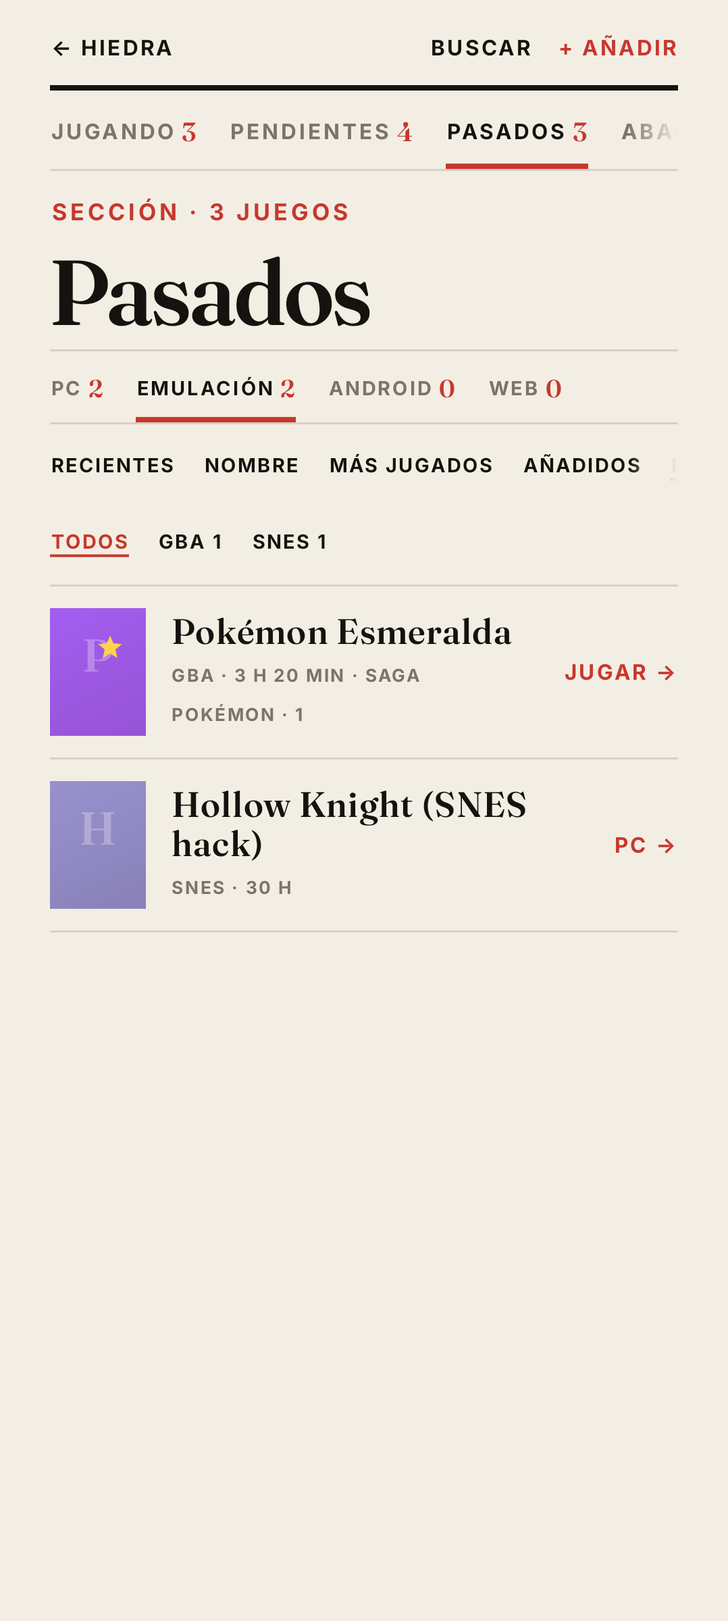
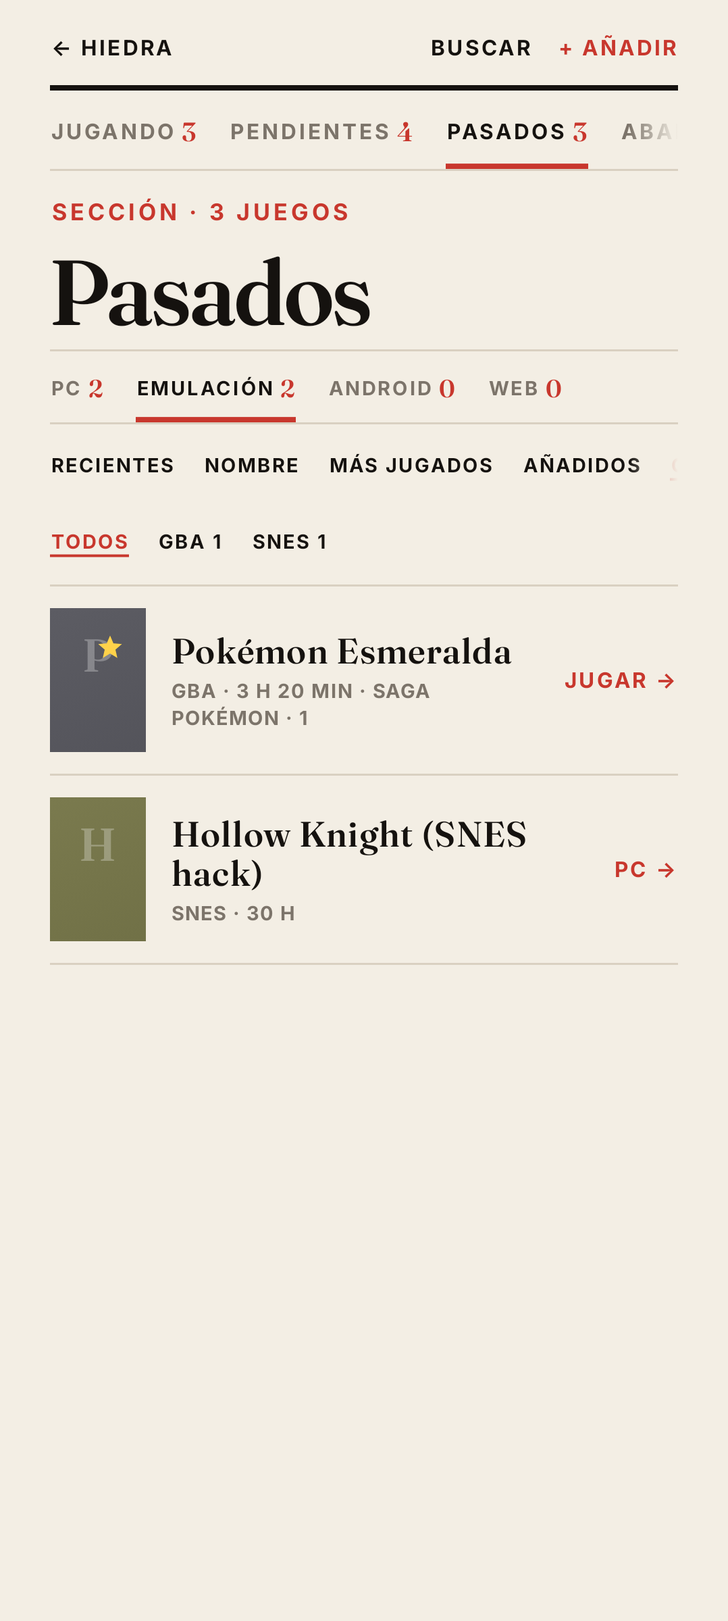
Hiedra 0.4.5: Parte 2 (fechas y cifras comunes, coherencia entre apps y pulido)
Ver README. Formato.kt con las mismas pruebas en las cuatro apps.

Claude-Session: https://claude.ai/code/session_01Q4uywen3nuzUg5CTwJaCY5

Changed region(s): [[0.0612, 0.3702, 0.7347, 0.5861], [0.7653, 0.401, 0.8878, 0.4318], [0.8571, 0.4935, 0.8878, 0.5552]]

diff --git a/app/src/main/java/com/gonzalo/hiedra/PantFicha.kt b/app/src/main/java/com/gonzalo/hiedra/PantFicha.kt
@@ -1,5 +1,7 @@
 package com.gonzalo.hiedra
 
+import androidx.compose.material.icons.rounded.Add
+import androidx.compose.material.icons.rounded.PlayArrow
 import android.content.Context
 import android.graphics.Bitmap
 import android.graphics.BitmapFactory
@@ -128,8 +130,8 @@ fun Ficha(id: String, alCerrar: () -> Unit, alJugar: (Juego) -> Unit, abrirPorta
         Spacer(Modifier.height(14.dp))
 
         // La portada (un toque la cambia) y tus horas (como la ficha de Marfil: la portada y por dónde vas)
-        Row(Modifier.fillMaxWidth().height(220.dp)) {
-            Box(Modifier.width(150.dp).height(220.dp).clip(esquina(3.dp)).border(1.dp, Line, esquina(3.dp)).clickable { eligePortada = true }.testTag("portada")) {
+        Row(Modifier.fillMaxWidth().height(225.dp)) {
+            Box(Modifier.width(150.dp).height(225.dp).clip(esquina(3.dp)).border(1.dp, Line, esquina(3.dp)).clickable { eligePortada = true }.testTag("portada")) {
                 PortadaArco(j, Modifier.matchParentSize(), titulo = false, letra = true, relleno = true, tamLetra = 64)
             }
             Column(Modifier.weight(1f).padding(start = 18.dp).fillMaxHeight(), verticalArrangement = Arrangement.Bottom) {
@@ -157,9 +159,10 @@ fun Ficha(id: String, alCerrar: () -> Unit, alJugar: (Juego) -> Unit, abrirPorta
 
         // Las acciones: jugar (o vincular) y la saga
         Filete(1.dp)
-        Row(Modifier.fillMaxWidth(), horizontalArrangement = Arrangement.spacedBy(18.dp), verticalAlignment = Alignment.CenterVertically) {
-            if (j.sinLanzador) EnlaceRevista("Añadir cómo se abre →", acento = true) { alVincular(j) }
-            else EnlaceRevista(if (j.abrible) "Jugar →" else if (j.enPc) "Jugar en el PC / streaming →" else "Jugar →", acento = true) { alJugar(j) }
+        // La acción de siempre, como en Marfil y Cobalto: un botón grande (jugar); la saga, al lado, en pequeño
+        Row(Modifier.fillMaxWidth().padding(vertical = 10.dp), horizontalArrangement = Arrangement.spacedBy(16.dp), verticalAlignment = Alignment.CenterVertically) {
+            if (j.sinLanzador) AccionGrande(androidx.compose.material.icons.Icons.Rounded.Add, "Añadir cómo se abre", Modifier.weight(1f)) { alVincular(j) }
+            else AccionGrande(androidx.compose.material.icons.Icons.Rounded.PlayArrow, if (j.enPc && !j.abrible) "Jugar en el PC" else "Jugar", Modifier.weight(1f)) { alJugar(j) }
             EnlaceRevista(if (miSaga != null) "Saga: ${miSaga.nombre} →" else "Saga →", acento = miSaga != null) { saga = true }
         }
         Filete(1.dp)
@@ -196,8 +199,11 @@ fun Ficha(id: String, alCerrar: () -> Unit, alJugar: (Juego) -> Unit, abrirPorta
         val nota = NotaAzabache.de(notas, j)
         Casilla("En Azabache", if (NotaAzabache.instalado(ctx)) "Abrir" to { NotaAzabache.abrir(ctx, nota) } else null) {
             if (nota == null) {
-                Text("Sin valorar en Azabache.", color = Muted, fontFamily = Display, fontStyle = FontStyle.Italic, fontSize = 16.sp)
-                Text("La valoración se hace allí; aquí solo se ve.", color = Muted, fontFamily = Display, fontStyle = FontStyle.Italic, fontSize = 13.sp, modifier = Modifier.padding(top = 4.dp))
+                // Una línea: lo que hay y qué hacer (antes eran dos que decían lo mismo)
+                Row(verticalAlignment = Alignment.CenterVertically) {
+                    Text(if (NotaAzabache.instalado(ctx)) "Sin valorar aún · " else "Sin valorar aún", color = Muted, fontFamily = Display, fontStyle = FontStyle.Italic, fontSize = 16.sp)
+                    if (NotaAzabache.instalado(ctx)) EnlaceRevista("Valorar en Azabache →", acento = true) { NotaAzabache.abrir(ctx, null) }
+                }
             } else {
                 Row(verticalAlignment = Alignment.Bottom) {
                     Text(nota.general.toString(), color = Charcoal, fontFamily = Display, fontWeight = FontWeight.Bold, fontSize = 64.sp, lineHeight = 62.sp, letterSpacing = (-2).sp, maxLines = 1, softWrap = false)
@@ -240,7 +246,7 @@ fun Ficha(id: String, alCerrar: () -> Unit, alJugar: (Juego) -> Unit, abrirPorta
             val pie = when {
                 buscandoDatos -> "Buscando los datos del juego…"
                 datos == null -> if (Datos.activo) "" else "Sin datos de fuera."
-                datos.nada -> if (Servicios.claves(ctx).rawg.isBlank()) "No está en la tienda de Steam. Con una clave de RAWG (Ajustes → Servicios, o en Atrio) se buscan también los juegos de consola." else "No he encontrado este juego en Steam ni en RAWG. Si su nombre aquí no es el oficial, cámbialo en «Editar» y busca de nuevo."
+                datos.nada -> if (Servicios.claves(ctx).rawg.isBlank()) "No está en la tienda de Steam. Con una clave de RAWG (Ajustes → Cuenta → Servicios, o en Atrio) se buscan también los juegos de consola." else "No he encontrado este juego en Steam ni en RAWG. Si su nombre aquí no es el oficial, cámbialo en «Editar» y busca de nuevo."
                 else -> ""
             }
             if (pie.isNotBlank()) Text(pie, color = Muted, fontFamily = Display, fontStyle = FontStyle.Italic, fontSize = 13.sp, lineHeight = 18.sp, modifier = Modifier.padding(top = 6.dp))
@@ -457,7 +463,7 @@ fun nombreFuente(k: String): String = when {
     else -> k
 }
 
-private fun fechaCorta(t: Long) = java.text.SimpleDateFormat("d/M/yyyy", java.util.Locale("es", "ES")).format(java.util.Date(t))
+private fun fechaCorta(t: Long) = Formato.fecha(t)
 fun notaTexto(n: Float) = if (n <= 0f) "—" else if (n % 1f == 0f) n.toInt().toString() else String.format(java.util.Locale("es", "ES"), "%.1f", n)
 
 /** Una casilla fija de la ficha: su antetítulo (con una acción a la derecha, si la hay) y lo que pinta, entre filetes. */

diff --git a/app/src/main/java/com/gonzalo/hiedra/PantInicio.kt b/app/src/main/java/com/gonzalo/hiedra/PantInicio.kt
@@ -97,7 +97,7 @@ fun Loseta(j: Juego, ancho: Dp, alJugar: () -> Unit, alAbrir: () -> Unit, modifi
     Column(modifier.width(ancho).enfocado(src).conMando(src, alJugar, alAbrir).focusable(interactionSource = src)
         .combinedClickable(interactionSource = src, indication = null, onClick = alJugar, onLongClick = { hf.performHapticFeedback(HapticFeedbackType.LongPress); alAbrir() })
         .testTag("loseta-" + j.id).padding(bottom = 6.dp)) {
-        Box(Modifier.fillMaxWidth().aspectRatio(0.75f).clip(esquina(3.dp)).border(1.dp, Line, esquina(3.dp))) {
+        Box(Modifier.fillMaxWidth().aspectRatio(PROPORCION_PORTADA).clip(esquina(3.dp)).border(1.dp, Line, esquina(3.dp))) {
             PortadaArco(j, Modifier.matchParentSize(), titulo = false, letra = true, relleno = true, tamLetra = if (ancho >= 140.dp) 44 else 30)
         }
         if (kicker.isNotBlank()) Text(kicker.uppercase(), color = Acento, fontFamily = Body, fontSize = 9.sp, fontWeight = FontWeight.Black, letterSpacing = 1.sp, maxLines = 1, modifier = Modifier.padding(top = 6.dp))
@@ -112,10 +112,10 @@ private fun LosetaSaga(s: Saga, juegos: List<Juego>, ancho: Dp, alAbrir: () -> U
     val src = remember { MutableInteractionSource() }
     val v = juegos.take(3)
     Column(Modifier.width(ancho).enfocado(src).conMando(src, alAbrir, alAbrir).focusable(interactionSource = src).clickable(interactionSource = src, indication = null, onClick = alAbrir).padding(bottom = 6.dp)) {
-        Box(Modifier.fillMaxWidth().aspectRatio(0.75f)) {
+        Box(Modifier.fillMaxWidth().aspectRatio(PROPORCION_PORTADA)) {
             v.asReversed().forEachIndexed { i, j ->
                 val k = v.size - 1 - i
-                Box(Modifier.padding(start = (ancho * 0.16f) * k, top = (ancho * 0.08f) * (v.size - 1 - k)).fillMaxWidth(if (v.size == 1) 1f else 0.7f).aspectRatio(0.75f).clip(esquina(3.dp)).border(1.dp, Line, esquina(3.dp))) {
+                Box(Modifier.padding(start = (ancho * 0.16f) * k, top = (ancho * 0.08f) * (v.size - 1 - k)).fillMaxWidth(if (v.size == 1) 1f else 0.7f).aspectRatio(PROPORCION_PORTADA).clip(esquina(3.dp)).border(1.dp, Line, esquina(3.dp))) {
                     PortadaArco(j, Modifier.matchParentSize(), titulo = false, letra = true, relleno = true, tamLetra = 26)
                 }
             }
@@ -192,7 +192,10 @@ fun PantInicio(alAbrir: (Juego) -> Unit, alJugar: (Juego) -> Unit, alAnadir: (Ti
     )
 
     // La cabecera y el menú, exactamente como en la portada de Atrio (RevistaHome): mismos márgenes, mismo tamaño de cabecera, de filetes y de letra
-    Column(Modifier.fillMaxSize().background(Paper).verticalScroll(rememberScrollState()).statusBarsPadding().padding(horizontal = 28.dp)) {
+    val desplazado = rememberScrollState()
+    val umbral = with(androidx.compose.ui.platform.LocalDensity.current) { 300.dp.toPx() }
+    Box(Modifier.fillMaxSize()) {
+    Column(Modifier.fillMaxSize().background(Paper).verticalScroll(desplazado).statusBarsPadding().padding(horizontal = 28.dp)) {
         Row(Modifier.fillMaxWidth().padding(top = 10.dp), verticalAlignment = Alignment.CenterVertically) {
             EnlaceRevista("Buscar") { alBuscar() }
             EnlaceRevista("+ Añadir", Modifier.padding(start = 14.dp), acento = true) { alAnadir(null) }
@@ -283,8 +286,13 @@ fun PantInicio(alAbrir: (Juego) -> Unit, alJugar: (Juego) -> Unit, alAnadir: (Ti
                 MagLink("Abrir Azabache", "Valora lo que acabas de jugar") { ctx.startActivity(atrio.addFlags(Intent.FLAG_ACTIVITY_NEW_TASK)) }
             }
             Text("Hiedra · hecho en casa", color = Muted, fontFamily = Display, fontStyle = FontStyle.Italic, fontSize = 12.sp, modifier = Modifier.align(Alignment.CenterHorizontally).padding(top = 14.dp))
+            // La versión instalada, debajo (para no tener que entrar en Ajustes a mirarla)
+            Text("versión $VERSION", color = Muted.copy(alpha = 0.7f), fontFamily = Body, fontSize = 10.sp, letterSpacing = 0.6.sp, modifier = Modifier.align(Alignment.CenterHorizontally).padding(top = 2.dp))
             Spacer(Modifier.height(24.dp + WindowInsets.navigationBars.asPaddingValues().calculateBottomPadding()))
         }
+    }
+    // Al bajar, la cabecera se pliega: arriba solo quedan el nombre y lo de siempre (Buscar · + Añadir…)
+    BarraPlegada("Hiedra", desplazado.value > umbral) { EnlaceRevista("Buscar") { alBuscar() }; EnlaceRevista("+ Añadir", Modifier.padding(start = 14.dp), acento = true) { alAnadir(null) } }
     }
 }
 

diff --git a/app/src/main/java/com/gonzalo/hiedra/Secciones.kt b/app/src/main/java/com/gonzalo/hiedra/Secciones.kt
@@ -58,7 +58,7 @@ fun ordenar(o: Orden, l: List<Juego>): List<Juego> = when (o) {
 /** El orden que has elegido para cada sección (se recuerda al cerrar la app). */
 object OrdenGuardado {
     private fun prefs(c: Context) = c.getSharedPreferences("hiedra_orden", Context.MODE_PRIVATE)
-    fun de(c: Context, e: Estado): Orden = Orden.entries.firstOrNull { it.name == prefs(c).getString(e.name, null) } ?: ordenInicial(e)
+    fun de(c: Context, e: Estado): Orden = (Orden.entries.firstOrNull { it.name == prefs(c).getString(e.name, null) } ?: ordenInicial(e)).let { if (it == Orden.Pasados && e != Estado.PASADO) ordenInicial(e) else it }
     fun pon(c: Context, e: Estado, o: Orden) { prefs(c).edit().putString(e.name, o.name).apply() }
 }
 
@@ -78,11 +78,11 @@ fun metaJuego(j: Juego, conEstado: Boolean = false): String = listOf(
 fun FilaJuego(j: Juego, alAbrir: (Juego) -> Unit, alJugar: ((Juego) -> Unit)? = null, modifier: Modifier = Modifier, portada: Dp = 54.dp, numero: Int = 0, conEstado: Boolean = false, extra: String = "") {
     Row(modifier.fillMaxWidth().clickable { alAbrir(j) }.padding(top = 12.dp, bottom = 12.dp), verticalAlignment = Alignment.CenterVertically) {
         if (numero > 0) Text("$numero", color = Acento, fontFamily = Display, fontWeight = FontWeight.SemiBold, fontSize = 20.sp, modifier = Modifier.width(26.dp))
-        Box(Modifier.width(portada).aspectRatio(0.75f).clip(esquina(4.dp))) { PortadaArco(j, Modifier.matchParentSize(), titulo = false, letra = true, relleno = true, tamLetra = 26) }
+        Box(Modifier.width(portada).aspectRatio(PROPORCION_PORTADA).clip(esquina(4.dp))) { PortadaArco(j, Modifier.matchParentSize(), titulo = false, letra = true, relleno = true, tamLetra = 26) }
         Column(Modifier.weight(1f).padding(horizontal = 14.dp)) {
             Text(j.titulo, color = Charcoal, fontFamily = Display, fontWeight = FontWeight.SemiBold, fontSize = if (portada >= 54.dp) 20.sp else 18.sp, lineHeight = if (portada >= 54.dp) 22.sp else 20.sp, maxLines = 2, overflow = TextOverflow.Ellipsis)
             val meta = listOf(metaJuego(j, conEstado), extra).filter { it.isNotBlank() }.joinToString(" · ")
-            if (meta.isNotBlank()) Text(meta.uppercase(), color = Muted, fontFamily = Body, fontSize = 10.sp, fontWeight = FontWeight.Bold, letterSpacing = 1.sp, maxLines = 2, modifier = Modifier.padding(top = 2.dp))
+            if (meta.isNotBlank()) Text(meta.uppercase(), color = Muted, fontFamily = Body, fontSize = 11.sp, fontWeight = FontWeight.Bold, letterSpacing = 0.8.sp, maxLines = 2, lineHeight = 15.sp, modifier = Modifier.padding(top = 3.dp))
         }
         if (alJugar != null && !j.sinLanzador) Text(if (j.enPc) "PC →" else "JUGAR →", color = Acento, fontFamily = Body, fontSize = 12.sp, fontWeight = FontWeight.Black, letterSpacing = 1.4.sp, maxLines = 1,
             modifier = Modifier.clickable { alJugar(j) }.padding(start = 8.dp, top = 12.dp, bottom = 12.dp))
@@ -196,7 +196,9 @@ private fun PaginaEstante(estado: Estado, todos: List<Juego>, menu: Menu?, alMen
                 Filete(1.dp, Line)
                 MenusPequenos(menu, cuentas) { sistema = null; alMenu(it) }
                 // Cómo se ordena esta sección (se recuerda)
-                FiltrosRevista(Orden.entries.map { it.nombre }, orden.ordinal, Modifier.padding(top = 4.dp)) { i -> orden = Orden.entries[i]; OrdenGuardado.pon(ctx, estado, orden) }
+                // «Cuándo lo pasaste», solo en Pasados (en las demás secciones no tiene sentido)
+                val ordenes = Orden.entries.filter { it != Orden.Pasados || estado == Estado.PASADO }
+                FiltrosRevista(ordenes.map { it.nombre }, ordenes.indexOf(orden).coerceAtLeast(0), Modifier.padding(top = 4.dp)) { i -> orden = ordenes[i]; OrdenGuardado.pon(ctx, estado, orden) }
                 // En Emulación, también por sistema
                 if (menu == Menu.EMULACION && sistemas.size > 1) FiltrosRevista(listOf("Todos") + sistemas.map { (Catalogo.sistema(it.key)?.corto ?: it.key) + " " + it.value.size }, sistemas.indexOfFirst { it.key == sistema } + 1) { i ->
                     sistema = if (i == 0) null else sistemas[i - 1].key

diff --git a/app/src/main/java/com/gonzalo/hiedra/PantPc.kt b/app/src/main/java/com/gonzalo/hiedra/PantPc.kt
@@ -134,8 +134,8 @@ fun TarjetaPc(alIr: () -> Unit, alAbrir: (Juego) -> Unit, enPortada: Boolean = t
     Column(Modifier.fillMaxWidth().padding(bottom = if (enPortada) 18.dp else 0.dp)) {
         Row(verticalAlignment = Alignment.CenterVertically) { PuntoDirecto(); Spacer(Modifier.width(8.dp)); Antetitulo("En directo · ${pc.name}", color = Acento, conCuadro = false) }
         Row(Modifier.fillMaxWidth().padding(top = 6.dp), verticalAlignment = Alignment.CenterVertically) {
-            if (juego != null) Box(Modifier.width(54.dp).aspectRatio(0.75f).clip(esquina(4.dp)).clickable { alAbrir(juego) }) { PortadaArco(juego, Modifier.matchParentSize(), titulo = false, letra = true, relleno = true, tamLetra = 26) }
-            else PortadaPc(PcGame(g.key, g.name, g.cover, g.sg, false, 0, "", 0), Modifier.width(54.dp).aspectRatio(0.75f))
+            if (juego != null) Box(Modifier.width(54.dp).aspectRatio(PROPORCION_PORTADA).clip(esquina(4.dp)).clickable { alAbrir(juego) }) { PortadaArco(juego, Modifier.matchParentSize(), titulo = false, letra = true, relleno = true, tamLetra = 26) }
+            else PortadaPc(PcGame(g.key, g.name, g.cover, g.sg, false, 0, "", 0), Modifier.width(54.dp).aspectRatio(PROPORCION_PORTADA))
             Column(Modifier.weight(1f).padding(start = 14.dp)) {
                 FitTitle(g.name, 26.sp, 28.sp, maxLines = 2, overflow = TextOverflow.Ellipsis, letterSpacing = (-0.5).sp)
                 Text(("Jugando desde hace " + desdeHace(g.start) + (juego?.takeIf { it.msJugados >= 60_000 }?.let { " · ${tiempoDe(it.msJugados)} en total" } ?: "")).uppercase(),
@@ -310,7 +310,7 @@ fun PantPc(alVolver: () -> Unit, alAbrir: (Juego) -> Unit, alCaptura: (Shot) -> 
                             LazyRow(horizontalArrangement = Arrangement.spacedBy(10.dp)) {
                                 items(recientes, key = { it.key }) { g ->
                                     Column(Modifier.width(96.dp).clickable { hoja = dev to g }) {
-                                        PortadaPc(g, Modifier.fillMaxWidth().aspectRatio(0.75f))
+                                        PortadaPc(g, Modifier.fillMaxWidth().aspectRatio(PROPORCION_PORTADA))
                                         Text(g.name, color = Charcoal, fontFamily = Display, fontWeight = FontWeight.SemiBold, fontSize = 13.sp, lineHeight = 15.sp, maxLines = 2, overflow = TextOverflow.Ellipsis, modifier = Modifier.padding(top = 4.dp))
                                     }
                                 }
@@ -329,7 +329,7 @@ fun PantPc(alVolver: () -> Unit, alAbrir: (Juego) -> Unit, alCaptura: (Shot) -> 
                             items(lib, key = { it.key }) { g ->
                                 val en = Biblioteca.porClave("pc:" + g.key) != null
                                 Column(Modifier.clickable { hoja = dev to g }) {
-                                    PortadaPc(g, Modifier.fillMaxWidth().aspectRatio(0.75f))
+                                    PortadaPc(g, Modifier.fillMaxWidth().aspectRatio(PROPORCION_PORTADA))
                                     Text(g.name, color = Charcoal, fontFamily = Display, fontWeight = FontWeight.SemiBold, fontSize = 13.sp, lineHeight = 15.sp, maxLines = 2, overflow = TextOverflow.Ellipsis, modifier = Modifier.padding(top = 4.dp))
                                     Text(listOfNotNull(if (g.minutes > 0) tiempoDe(g.minutes * 60_000L) else null, if (en) "en Hiedra" else null).joinToString(" · ").uppercase(), color = if (en) Acento else Muted, fontFamily = Body, fontSize = 9.sp, fontWeight = FontWeight.Bold, letterSpacing = 0.8.sp, maxLines = 2)
                                 }

diff --git a/app/src/main/java/com/gonzalo/hiedra/Portadas.kt b/app/src/main/java/com/gonzalo/hiedra/Portadas.kt
@@ -54,19 +54,20 @@ fun urlsLibretro(j: Juego): List<String> {
 }
 
 /** Los dos colores del degradado de un juego: el de su sistema (o un tono según el nombre) un poco movido por el título. */
+/** La proporción de una portada (ancho/alto): 2:3, la de las carátulas (SteamGridDB, cajas). La misma en la ficha, las listas y la pantalla de inicio, para que nada se recorte distinto. */
+const val PROPORCION_PORTADA = 2f / 3f
+
+/** Las telas de las portadas de letra: las mismas en Hiedra, Marfil, Cobalto y Azabache (un título, siempre el mismo color). */
+val TELAS = listOf(0xFF7A2E2E, 0xFF2F4A6B, 0xFF35523F, 0xFF5B3F6B, 0xFF8A5A2B, 0xFF3F5E63, 0xFF6B6B3A, 0xFF4A4A52).map { Color(it) }
+fun telaDe(titulo: String): Color = TELAS[(normTela(titulo).hashCode() and 0x7fffffff) % TELAS.size]
+/** La misma normalización que Marfil (así un título tiene la misma tela en las cuatro apps). */
+fun normTela(s: String): String = java.text.Normalizer.normalize(s.lowercase(), java.text.Normalizer.Form.NFD).replace(Regex("\\p{M}+"), "").replace(Regex("[^\\p{L}\\p{N}]+"), " ").trim()
+private fun mezcla(a: Color, b: Color, t: Float) = Color(a.red + (b.red - a.red) * t, a.green + (b.green - a.green) * t, a.blue + (b.blue - a.blue) * t, 1f)
+
 fun tonosDe(j: Juego): Pair<Color, Color> {
-    val base = when (j.tipo) {
-        TipoLanzador.ROM -> Catalogo.sistema(j.sistema)?.color ?: Color(0xFF6C4DD6)
-        TipoLanzador.APP -> Color.hsv(((j.paquete.hashCode().mod(120)) + 90).toFloat(), 0.5f, 0.6f)
-        TipoLanzador.WEB -> Color.hsv(((j.url.hashCode().mod(80)) + 190).toFloat(), 0.55f, 0.62f)
-        TipoLanzador.PC -> Color.hsv((((j.clave.hashCode().mod(60)) + 340) % 360).toFloat(), 0.55f, 0.5f)
-        null -> Color.hsv(((j.clave.hashCode().mod(300)) + 20).toFloat(), 0.5f, 0.58f)
-    }
-    val shift = (j.titulo.hashCode().mod(40) - 20).toFloat()
-    val hsv = FloatArray(3).also { android.graphics.Color.colorToHSV(base.toArgb2(), it) }
-    val a = Color.hsv(((hsv[0] + shift + 360) % 360), (hsv[1] * 0.95f).coerceIn(0f, 1f), (hsv[2] * 1.12f).coerceIn(0f, 1f))
-    val b = Color.hsv(((hsv[0] + shift * 2 + 380) % 360), (hsv[1]).coerceIn(0f, 1f), (hsv[2] * 0.42f).coerceIn(0f, 1f))
-    return a to b
+    // La tela del título (como las tapas de Marfil), de un poco más clara arriba a más oscura abajo
+    val tela = telaDe(j.titulo)
+    return mezcla(tela, Color.White, 0.10f) to mezcla(tela, Color.Black, 0.32f)
 }
 private fun Color.toArgb2(): Int = android.graphics.Color.argb((alpha * 255).toInt(), (red * 255).toInt(), (green * 255).toInt(), (blue * 255).toInt())
 
@@ -117,7 +118,7 @@ fun PortadaArco(
     val hayPortada = remember(j.portada) { j.portada.isNotBlank() && File(j.portada).exists() }
     val borde = Skin.forma
     Box(
-        modifier.let { if (relleno) it else it.aspectRatio(0.75f) }
+        modifier.let { if (relleno) it else it.aspectRatio(PROPORCION_PORTADA) }
             .let { m -> if (borde.sombraDura) m.drawBehind { drawRect(Charcoal, topLeft = Offset(6.dp.toPx(), 6.dp.toPx()), size = size) } else m }
             .clip(forma).background(Brush.linearGradient(listOf(a, b), Offset.Zero, Offset(600f, 1200f)))
             .let { if (borde.borde.value > 0f) it.border(borde.borde, if (borde.bordeTinta) Charcoal else Line, forma) else it }

diff --git a/app/src/main/java/com/gonzalo/hiedra/Modelo.kt b/app/src/main/java/com/gonzalo/hiedra/Modelo.kt
@@ -257,6 +257,7 @@ object Biblioteca {
         val f = archivo!!
         if (f.exists()) runCatching { leer(f.readText()) }
         cargada = true
+        runCatching { unirRepetidos() }
     }
 
     fun leer(txt: String, reemplazar: Boolean = true) {
@@ -332,6 +333,22 @@ object Biblioteca {
         return (por(n.id) ?: n) to true
     }
 
+    /**
+     * Juegos repetidos: dos fichas con una clave en común (la misma ROM, la misma app, el mismo juego del PC o de Steam, el mismo título) y la
+     * misma plataforma (o una sin plataforma) son el mismo juego. Pasaba al importar de Atrio o de Carmesí en dos móviles: cada uno creaba su
+     * copia, con su propio id, y al quitar una volvía la del otro. Se juntan en la de id más bajo (la misma en todos tus móviles, así no se
+     * pisan) y las demás se quitan (y se quitan también en tus otros móviles). Devuelve cuántas ha juntado.
+     */
+    fun unirRepetidos(): Int {
+        val grupos = gruposRepetidos(juegos.toList())
+        var n = 0
+        for (g in grupos) {
+            val queda = g.minOf { it }
+            for (otro in g) if (otro != queda && unir(queda, otro) != null) n++
+        }
+        return n
+    }
+
     /** Une dos juegos (ver [unirJuegos]): [origenId] desaparece dentro de [destinoId]. Devuelve el resultado o null si falta alguno. */
     fun unir(destinoId: String, origenId: String): Juego? {
         val d = por(destinoId) ?: return null; val o = por(origenId) ?: return null
@@ -386,4 +403,22 @@ object Ajustes {
     fun guardar(c: Context) {
         p(c).edit().putBoolean("libretro", portadasLibretro).putString("emus", JSONObject(emuladorPorSistema as Map<*, *>).toString()).apply()
     }
+}
+
+
+/** Los grupos de ids que son el mismo juego (ver [Biblioteca.unirRepetidos]). Pura (se prueba). */
+fun gruposRepetidos(juegos: List<Juego>): List<Set<String>> {
+    val padre = HashMap<String, String>()
+    fun raiz(x: String): String { var r = x; while (padre[r] != null && padre[r] != r) r = padre[r]!!; return r }
+    fun junta(a: String, b: String) { val ra = raiz(a); val rb = raiz(b); if (ra != rb) padre[maxOf(ra, rb)] = minOf(ra, rb) }
+    juegos.forEach { padre[it.id] = it.id }
+    val porClave = HashMap<String, MutableList<Juego>>()
+    juegos.forEach { j -> j.claves.forEach { k -> porClave.getOrPut(k) { ArrayList() }.add(j) } }
+    for (l in porClave.values) for (i in l.indices) for (k in i + 1 until l.size) {
+        val a = l[i]; val b = l[k]
+        if (a.id == b.id) continue
+        val pa = a.plataforma.trim().lowercase(); val pb = b.plataforma.trim().lowercase()
+        if (pa.isBlank() || pb.isBlank() || pa == pb) junta(a.id, b.id)
+    }
+    return juegos.map { it.id }.groupBy { raiz(it) }.values.filter { it.size > 1 }.map { it.toSet() }
 }

diff --git a/app/src/main/java/com/gonzalo/hiedra/Revista.kt b/app/src/main/java/com/gonzalo/hiedra/Revista.kt
@@ -102,7 +102,8 @@ fun PestanasRevista(nombres: List<String>, sel: Int, modifier: Modifier = Modifi
                     .drawBehind { if (on) drawRect(Acento, topLeft = Offset(0f, size.height - 3.dp.toPx()), size = Size(size.width, 3.dp.toPx())) }
                     .padding(top = 12.dp, bottom = 10.dp), verticalAlignment = Alignment.Bottom) {
                     Text(n.uppercase(), color = if (on) Charcoal else Muted, fontFamily = Body, fontSize = 12.sp, fontWeight = FontWeight.Black, letterSpacing = 1.6.sp, maxLines = 1)
-                    cuentas?.getOrNull(i)?.let { c -> Text(" $c", color = Acento, fontFamily = Display, fontWeight = FontWeight.SemiBold, fontSize = 15.sp, maxLines = 1) }
+                    cuentas?.getOrNull(i)?.let { c -> Text(" $c", color = if (on) Charcoal else Muted,  // (el rojo, solo para lo que se toca: la pestaña activa y los enlaces)
+                         fontFamily = Display, fontWeight = FontWeight.SemiBold, fontSize = 15.sp, maxLines = 1) }
                 }
             }
         }
@@ -315,3 +316,21 @@ fun FitTitle(
     )
 }
 private val anchosFit = ConcurrentHashMap<String, Int>()
+
+/**
+ * La cabecera plegada de la portada: al bajar, el nombre y las acciones de arriba (buscar, añadir) se quedan fijos en una barra fina, y el
+ * resto de la cabecera (Nº, fecha, barras, menú) se va con la página. Igual en Hiedra, Marfil y Cobalto.
+ */
+@Composable
+fun BarraPlegada(nombre: String, visible: Boolean, acciones: @Composable androidx.compose.foundation.layout.RowScope.() -> Unit) {
+    androidx.compose.animation.AnimatedVisibility(visible, enter = androidx.compose.animation.fadeIn(), exit = androidx.compose.animation.fadeOut()) {
+        Column(Modifier.fillMaxWidth().background(Paper).statusBarsPadding().padding(horizontal = 28.dp)) {
+            Row(Modifier.fillMaxWidth().padding(top = 8.dp, bottom = 8.dp), verticalAlignment = Alignment.CenterVertically) {
+                Text(nombre.uppercase(), color = Charcoal, fontFamily = Display, fontWeight = FontWeight.Bold, fontSize = 22.sp, letterSpacing = 1.sp, maxLines = 1)
+                Spacer(Modifier.weight(1f))
+                acciones()
+            }
+            Filete(2.dp)
+        }
+    }
+}

diff --git a/app/src/main/java/com/gonzalo/hiedra/Formato.kt b/app/src/main/java/com/gonzalo/hiedra/Formato.kt
@@ -1,0 +1,33 @@
+package com.gonzalo.hiedra
+
+import java.time.Instant
+import java.time.LocalDate
+import java.time.ZoneId
+
+/**
+ * Fechas y cifras, iguales en Hiedra, Marfil, Cobalto y Azabache (mismas pruebas en las cuatro, `FormatoTest`):
+ *  - en fichas y textos corridos: «16 oct 2026» ([fecha]);
+ *  - en tablas de datos: «16/10/2026» ([fechaTabla]);
+ *  - las cifras, siempre con punto de millar: «4.010 palabras», «80.000» ([cifra]).
+ * Los meses van escritos aquí (no los de Android, que según la versión les pone punto: «oct.»).
+ */
+object Formato {
+    private val MESES = listOf("ene", "feb", "mar", "abr", "may", "jun", "jul", "ago", "sept", "oct", "nov", "dic")
+
+    fun fecha(d: LocalDate): String = "${d.dayOfMonth} ${MESES[d.monthValue - 1]} ${d.year}"
+    fun fecha(ms: Long): String = fecha(Instant.ofEpochMilli(ms).atZone(ZoneId.systemDefault()).toLocalDate())
+    fun fechaDia(epochDay: Long): String = fecha(LocalDate.ofEpochDay(epochDay))
+    /** «16 oct» (sin el año, si es de este año). */
+    fun fechaSinAno(d: LocalDate, hoy: LocalDate = LocalDate.now()): String = if (d.year == hoy.year) "${d.dayOfMonth} ${MESES[d.monthValue - 1]}" else fecha(d)
+
+    fun fechaTabla(d: LocalDate): String = "%02d/%02d/%d".format(d.dayOfMonth, d.monthValue, d.year)
+    fun fechaTablaDia(epochDay: Long): String = fechaTabla(LocalDate.ofEpochDay(epochDay))
+
+    fun cifra(n: Long): String {
+        val s = kotlin.math.abs(n).toString()
+        val out = StringBuilder()
+        s.forEachIndexed { i, ch -> if (i > 0 && (s.length - i) % 3 == 0) out.append('.'); out.append(ch) }
+        return (if (n < 0) "-" else "") + out
+    }
+    fun cifra(n: Int): String = cifra(n.toLong())
+}

diff --git a/app/src/main/java/com/gonzalo/hiedra/Servicios.kt b/app/src/main/java/com/gonzalo/hiedra/Servicios.kt
@@ -48,7 +48,7 @@ object Sgdb {
         val c = URL(BASE + path).openConnection() as HttpURLConnection
         c.setRequestProperty("Authorization", "Bearer $key")
         c.connectTimeout = 15000; c.readTimeout = 15000
-        if (c.responseCode !in 200..299) error("SteamGridDB respondió ${c.responseCode}. Revisa la API key (Ajustes → Servicios).")
+        if (c.responseCode !in 200..299) error("SteamGridDB respondió ${c.responseCode}. Revisa la API key (Ajustes → Cuenta → Servicios).")
         return JSONObject(c.inputStream.bufferedReader().readText()).getJSONArray("data")
     }
 
@@ -203,7 +203,7 @@ fun DialogoSgdb(j: Juego, alCerrar: () -> Unit, alElegir: (String) -> Unit) {
             Antetitulo(elegido?.name ?: "SteamGridDB", Modifier.padding(top = 12.dp), color = Acento, conCuadro = false)
             if (key.isBlank()) {
                 Text("Falta la API key de SteamGridDB.", color = Charcoal, fontFamily = Display, fontSize = 20.sp, modifier = Modifier.padding(top = 10.dp))
-                Cuerpo("Se genera en tu perfil de steamgriddb.com (Preferencias → API). Ponla en Ajustes → Servicios; si ya la tienes en Atrio, se coge sola al vincular la cuenta.", modifier = Modifier.padding(top = 6.dp))
+                Cuerpo("Se genera en tu perfil de steamgriddb.com (Preferencias → API). Ponla en Ajustes → Cuenta → Servicios; si ya la tienes en Atrio, se coge sola al vincular la cuenta.", modifier = Modifier.padding(top = 6.dp))
                 return@Column
             }
             if (elegido == null) {

diff --git a/app/src/test/java/com/gonzalo/hiedra/DatosTest.kt b/app/src/test/java/com/gonzalo/hiedra/DatosTest.kt
@@ -39,10 +39,10 @@ class DatosTest {
         val json = """{"id":9,"name":"The Legend of Zelda: The Minish Cap","released":"2004-11-04","developers":[{"name":"Capcom"},{"name":"Flagship"}],"publishers":[{"name":"Nintendo"}],
             "genres":[{"name":"Adventure"},{"name":"RPG"}],"description_raw":"Link se encoge.","metacritic":89,"playtime":16}"""
         val d = Datos.deRawg(json, ahora = 1)
-        assertEquals("RAWG", d.fuente); assertEquals("4/11/2004", d.salida); assertEquals(listOf("Capcom", "Flagship"), d.desarrolladores); assertEquals(listOf("Nintendo"), d.editores)
+        assertEquals("RAWG", d.fuente); assertEquals("4 nov 2004", d.salida); assertEquals(listOf("Capcom", "Flagship"), d.desarrolladores); assertEquals(listOf("Nintendo"), d.editores)
         assertEquals(listOf("Adventure", "RPG"), d.generos); assertEquals("Link se encoge.", d.resumen); assertEquals(89, d.metacritic)
         assertEquals(16 * 60, Datos.horasDeRawg(json)); assertEquals(0, Datos.horasDeRawg("{}"))
-        assertEquals("2004", Datos.fechaBonita("2004")); assertEquals("", Datos.fechaBonita("")); assertEquals("1/2/2020", Datos.fechaBonita("2020-02-01"))
+        assertEquals("2004", Datos.fechaBonita("2004")); assertEquals("", Datos.fechaBonita("")); assertEquals("1 feb 2020", Datos.fechaBonita("2020-02-01"))
     }
 
     @Test fun igdbDaLoQueSueleDurarEnMinutos() {

diff --git a/app/src/main/java/com/gonzalo/hiedra/SagasUi.kt b/app/src/main/java/com/gonzalo/hiedra/SagasUi.kt
@@ -173,7 +173,7 @@ fun SelectorJuegos(titulo: String, candidatos: List<Juego>, alCerrar: () -> Unit
                     val on = j.id in marcados
                     Row(Modifier.fillMaxWidth().clickable { if (uno) alElegir(listOf(j.id)) else marcados = if (on) marcados - j.id else marcados + j.id }.padding(vertical = 10.dp), verticalAlignment = Alignment.CenterVertically) {
                         if (!uno) Text(if (on) "■" else "□", color = if (on) Acento else Muted, fontSize = 22.sp, modifier = Modifier.width(34.dp))
-                        Box(Modifier.width(40.dp).aspectRatio(0.75f).clip(esquina(3.dp))) { PortadaArco(j, Modifier.matchParentSize(), titulo = false, letra = true, relleno = true, tamLetra = 18) }
+                        Box(Modifier.width(40.dp).aspectRatio(PROPORCION_PORTADA).clip(esquina(3.dp))) { PortadaArco(j, Modifier.matchParentSize(), titulo = false, letra = true, relleno = true, tamLetra = 18) }
                         Column(Modifier.weight(1f).padding(start = 12.dp)) {
                             Text(j.titulo, color = Charcoal, fontFamily = Display, fontWeight = FontWeight.SemiBold, fontSize = 18.sp, maxLines = 2)
                             Text(metaJuego(j, conEstado = true).uppercase(), color = Muted, fontFamily = Body, fontSize = 10.sp, fontWeight = FontWeight.Bold, letterSpacing = 1.sp)

diff --git a/app/src/main/java/com/gonzalo/hiedra/ConfigWidgetActivity.kt b/app/src/main/java/com/gonzalo/hiedra/ConfigWidgetActivity.kt
@@ -57,7 +57,7 @@ fun ElegirJuegoWidget(alElegir: (String?) -> Unit) {
             if (lista.isEmpty()) item { Text("Todavía no hay juegos en Hiedra.", color = Muted, fontFamily = Display, fontStyle = FontStyle.Italic, fontSize = 17.sp, modifier = Modifier.padding(top = 20.dp)) }
             items(lista, key = { it.id }) { j ->
                 Row(Modifier.fillMaxWidth().clickable { alElegir(j.id) }.padding(vertical = 10.dp), verticalAlignment = Alignment.CenterVertically) {
-                    Box(Modifier.width(40.dp).aspectRatio(0.75f).clip(esquina(3.dp))) { PortadaArco(j, Modifier.matchParentSize(), titulo = false, letra = true, relleno = true, tamLetra = 18) }
+                    Box(Modifier.width(40.dp).aspectRatio(PROPORCION_PORTADA).clip(esquina(3.dp))) { PortadaArco(j, Modifier.matchParentSize(), titulo = false, letra = true, relleno = true, tamLetra = 18) }
                     Column(Modifier.weight(1f).padding(start = 12.dp)) {
                         Text(j.titulo, color = Charcoal, fontFamily = Display, fontWeight = FontWeight.SemiBold, fontSize = 18.sp, maxLines = 2)
                         Text(metaJuego(j, conEstado = true).uppercase(), color = Muted, fontFamily = Body, fontSize = 10.sp, fontWeight = FontWeight.Bold, letterSpacing = 1.sp)
